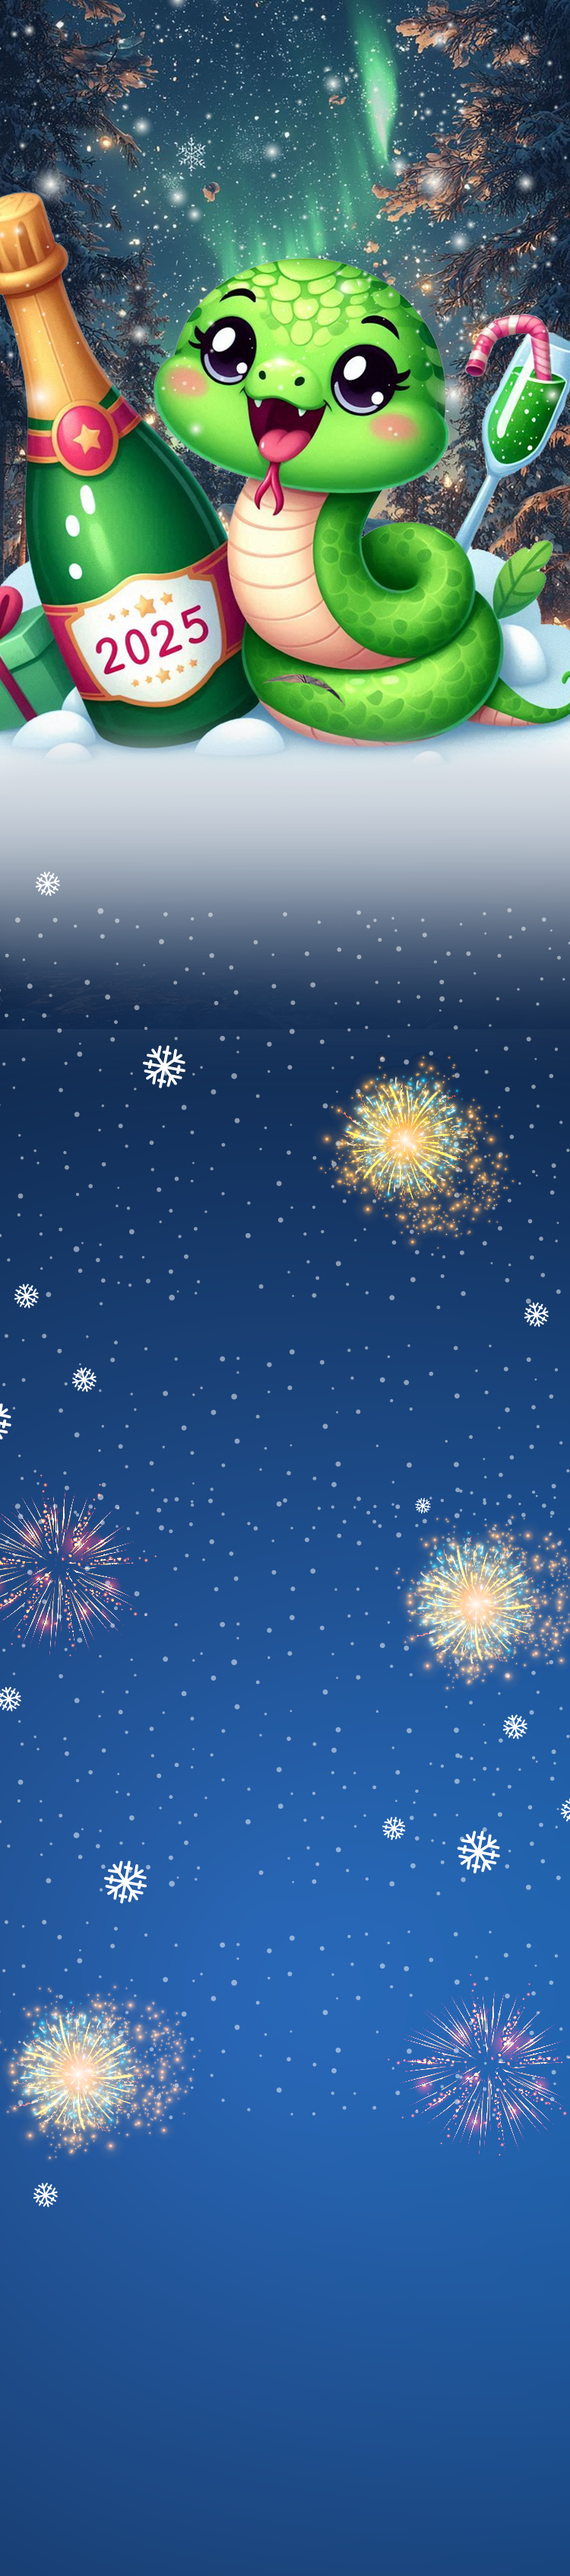
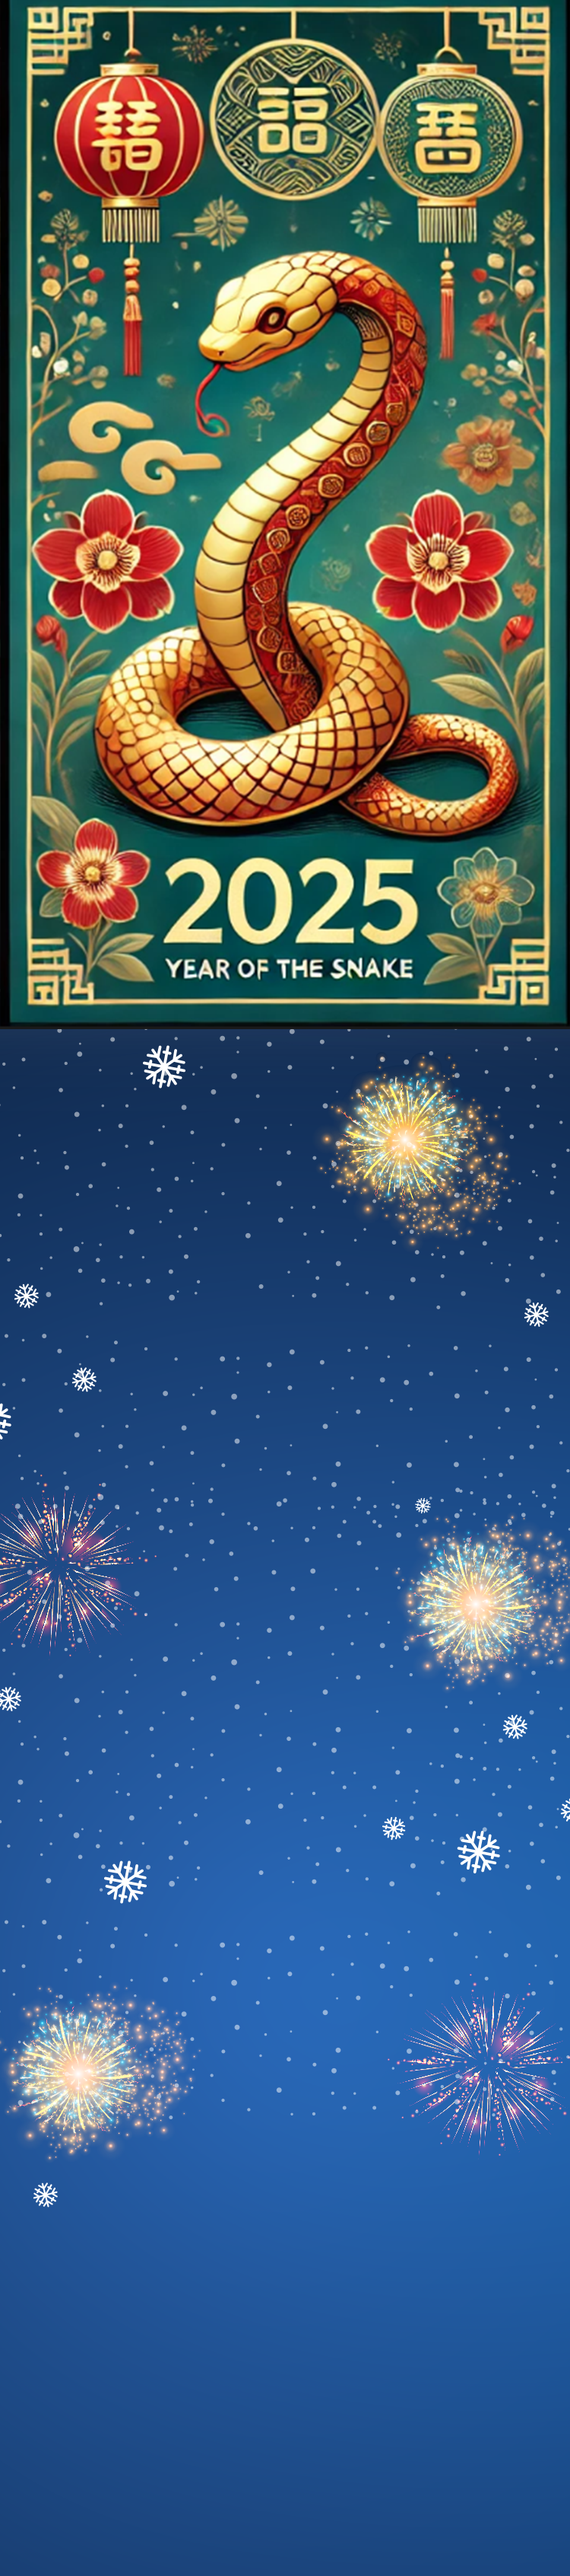
fg

diff --git a/index.html b/index.html
@@ -35,11 +35,11 @@
 
     <div class="app">
         <a class="top" href="http://24qp0.com/">
-            <!-- <img src="./assets/images/z11.webm" alt=""> -->
-            <video width="640" height="360" autoplay loop muted playsinline>
+            <img src="./assets/images/im.png" alt="">
+            <!-- <video width="640" height="360" autoplay loop muted playsinline>
                 <source src="./assets/images/z11.webm" type="video/webm">
                 Your browser does not support the WebM video format.
-              </video>
+              </video> -->
         </a>
         <div class="image top1">
             

diff --git a/assets/css/sty.css b/assets/css/sty.css
@@ -33,8 +33,8 @@ body, html {
 
 .top1 {
   /*  width:80% !important;*/
-  margin-bottom: 25rem;
-  padding-top: 120px;
+  margin-bottom: 27rem;
+  /* padding-top: 120px; */
 }
 
 .image {
@@ -74,12 +74,13 @@ body, html {
     }
 
 .top img {
-    /* width: 90%; */
+    width: 65%;
     display: block;
     /* padding-top: 18rem; */
     right: 10%;
     margin-left: 14%;
     margin: 0 auto;
+    margin-top: -1rem;
 }
 
 .look {
